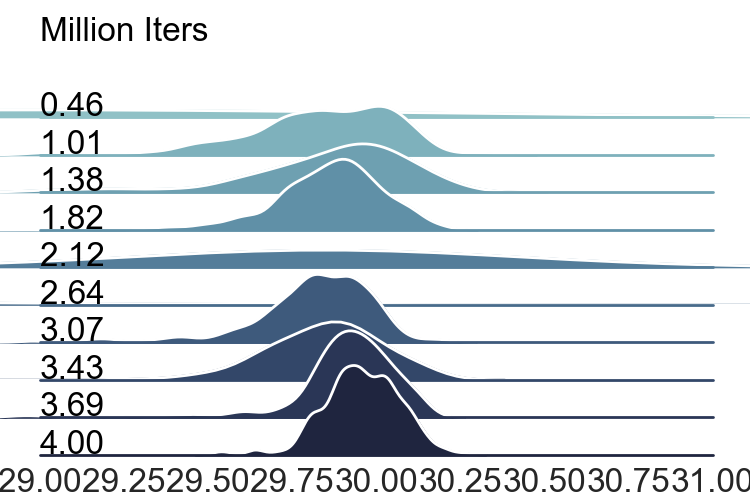
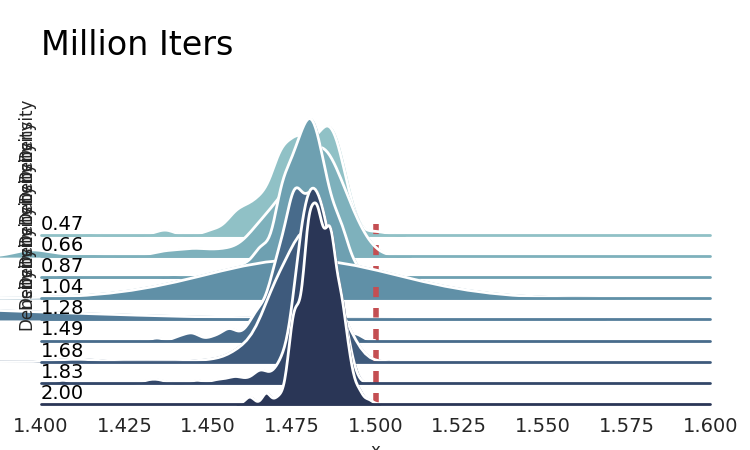
modify histograms

Changed region(s): [[0.0, 0.1867, 1.0, 1.0], [0.0307, 0.0311, 0.3067, 0.1244]]

diff --git a/data_process/histograms_mujoco.py b/data_process/histograms_mujoco.py
@@ -17,27 +17,27 @@ def histograms_download(name='HalfCheetah-FAC'):
 
     a = data
     df_times = []
-    for i in range(10):
+    for i in range(9):
         dist = []
-        for interval in a[(i + 1) * 5][2]:
+        for interval in a[(i + 2) * 5][2]:
             if interval[2] > 0:
-                interval_dist = np.linspace(interval[0], interval[1], int(interval[2]))
+                interval_dist = np.linspace(interval[0]/20.2, interval[1]/20.2, int(interval[2]))
                 dist += list(interval_dist)
-        iter = a[(i + 1) * 5][1]/1000000 * np.ones([len(dist),])
-        df=pd.DataFrame((dict(g=iter + 0.1 * (i + 1),x=dist)))
+        iter = a[(i + 2) * 5][1]/3000000 * np.ones([len(dist),])
+        df=pd.DataFrame((dict(g=iter + 0.1 * (i + 2),x=dist)))
         df_times.append(df)
     total_df = df_times[0].append(df_times[1:])
 
     # Initialize the FacetGrid object
     pal = sns.cubehelix_palette(10, rot=-.25, light=.7)
-    g = sns.FacetGrid(total_df, row="g", hue="g", aspect=15, size=.5, palette=pal,xlim=[29., 31.], ) #xlim=[-0.8, 0.8],
+    g = sns.FacetGrid(total_df, row="g", hue="g", aspect=15, size=.5, palette=pal, xlim=[1.4, 1.6],) #xlim=[-0.8, 0.8],
 
     # cstr_plt_ax = []
     # for i in [0, 3, 6, 9]:
     #  cstr_plt_ax.append(g.row_names[i])
 
     for iter, ax in g.axes_dict.items():
-     ax.plot([0, 0], [0, 0.8], color='r', linestyle='dashed', linewidth=LINEWIDTH ) # 0.06
+     ax.plot([1.5, 1.5], [0, 4], color='r', linestyle='dashed', linewidth=LINEWIDTH ) # 0.06
      if iter == g.row_names[0]:
       ax.text(0, 0.9, "Million Iters",  color='black', fontsize=FONTSIZE, # fontweight="bold",
               ha="left", va="center", transform=ax.transAxes)
@@ -53,20 +53,20 @@ def histograms_download(name='HalfCheetah-FAC'):
     # Define and use a simple function to label the plot in axes coordinates
     def label(x, color, label):
      ax = plt.gca()
-     ax.text(0, .1, '{:.2f}'.format(float(label)), color='black', fontsize=FONTSIZE,
+     ax.text(0, .05, '{:.2f}'.format(float(label)), color='black', fontsize=int(0.6 * FONTSIZE),
              ha="left", va="center", transform=ax.transAxes) # fontweight="bold",
 
     g.map(label, "x")
 
 
     # Set the subplots to overlap
-    g.fig.subplots_adjust(hspace=-.6)
+    g.fig.subplots_adjust(hspace=-.9)
 
 
     # Remove axes details that don't play will with overlap
     g.set_titles("")
     g.set(yticks=[])
-    g.set_xticklabels(fontsize=FONTSIZE)
+    g.set_xticklabels(fontsize=int(0.6 * FONTSIZE))
     g.despine(bottom=True, left=True)
     import os
     os.makedirs('../data_process/figure', exist_ok=True)
@@ -81,14 +81,14 @@ def histograms_download2(name='HalfCheetah-SACL'):
 
     a = data
     df_times = []
-    for i in range(10):
+    for i in range(9):
         dist = []
-        for interval in a[(i + 1) * 5][2]:
+        for interval in a[(i + 2) * 5][2]:
             if interval[2] > 0:
-                interval_dist = np.linspace(interval[0], interval[1], int(interval[2]))
+                interval_dist = np.linspace(interval[0] / 20, interval[1] / 20, 1000 * int(interval[2]))
                 dist += list(interval_dist)
-        iter = a[(i + 1) * 5][1]/1000000 * np.ones([len(dist),])
-        df=pd.DataFrame((dict(g=iter + 0.1 * (i + 1),x=dist)))
+        iter = a[(i + 2) * 5][1]/1000000 * np.ones([len(dist),])
+        df=pd.DataFrame((dict(g=iter + 0.1 * (i + 2),x=dist)))
         df_times.append(df)
     total_df = df_times[0].append(df_times[1:])
 
@@ -101,7 +101,7 @@ def histograms_download2(name='HalfCheetah-SACL'):
     #  cstr_plt_ax.append(g.row_names[i])
 
     for iter, ax in g.axes_dict.items():
-     ax.plot([0, 0], [0, 0.8], color='r', linestyle='dashed', linewidth=LINEWIDTH ) # 0.06
+     ax.plot([1.5, 1.5], [0, 0.4], color='r', linestyle='dashed', linewidth=LINEWIDTH ) # 0.06
      if iter == g.row_names[0]:
       ax.text(0, 0.9, "Million Iters",  color='black', fontsize=FONTSIZE, # fontweight="bold",
               ha="left", va="center", transform=ax.transAxes)
@@ -117,14 +117,14 @@ def histograms_download2(name='HalfCheetah-SACL'):
     # Define and use a simple function to label the plot in axes coordinates
     def label(x, color, label):
      ax = plt.gca()
-     ax.text(0, .1, '{:.2f}'.format(float(label)), color='black', fontsize=FONTSIZE,
+     ax.text(0, .05, '{:.2f}'.format(float(label)), color='black', fontsize=int(0.6 * FONTSIZE),
              ha="left", va="center", transform=ax.transAxes) # fontweight="bold",
 
     g.map(label, "x")
 
 
     # Set the subplots to overlap
-    g.fig.subplots_adjust(hspace=-.6)
+    g.fig.subplots_adjust(hspace=-0.9)
 
 
     # Remove axes details that don't play will with overlap
@@ -138,6 +138,6 @@ def histograms_download2(name='HalfCheetah-SACL'):
     plt.savefig(fig_name)
 
 if __name__ == '__main__':
-    # histograms_download()
-    histograms_download2()
+    histograms_download()
+    # histograms_download2()
     # distributions_download()
